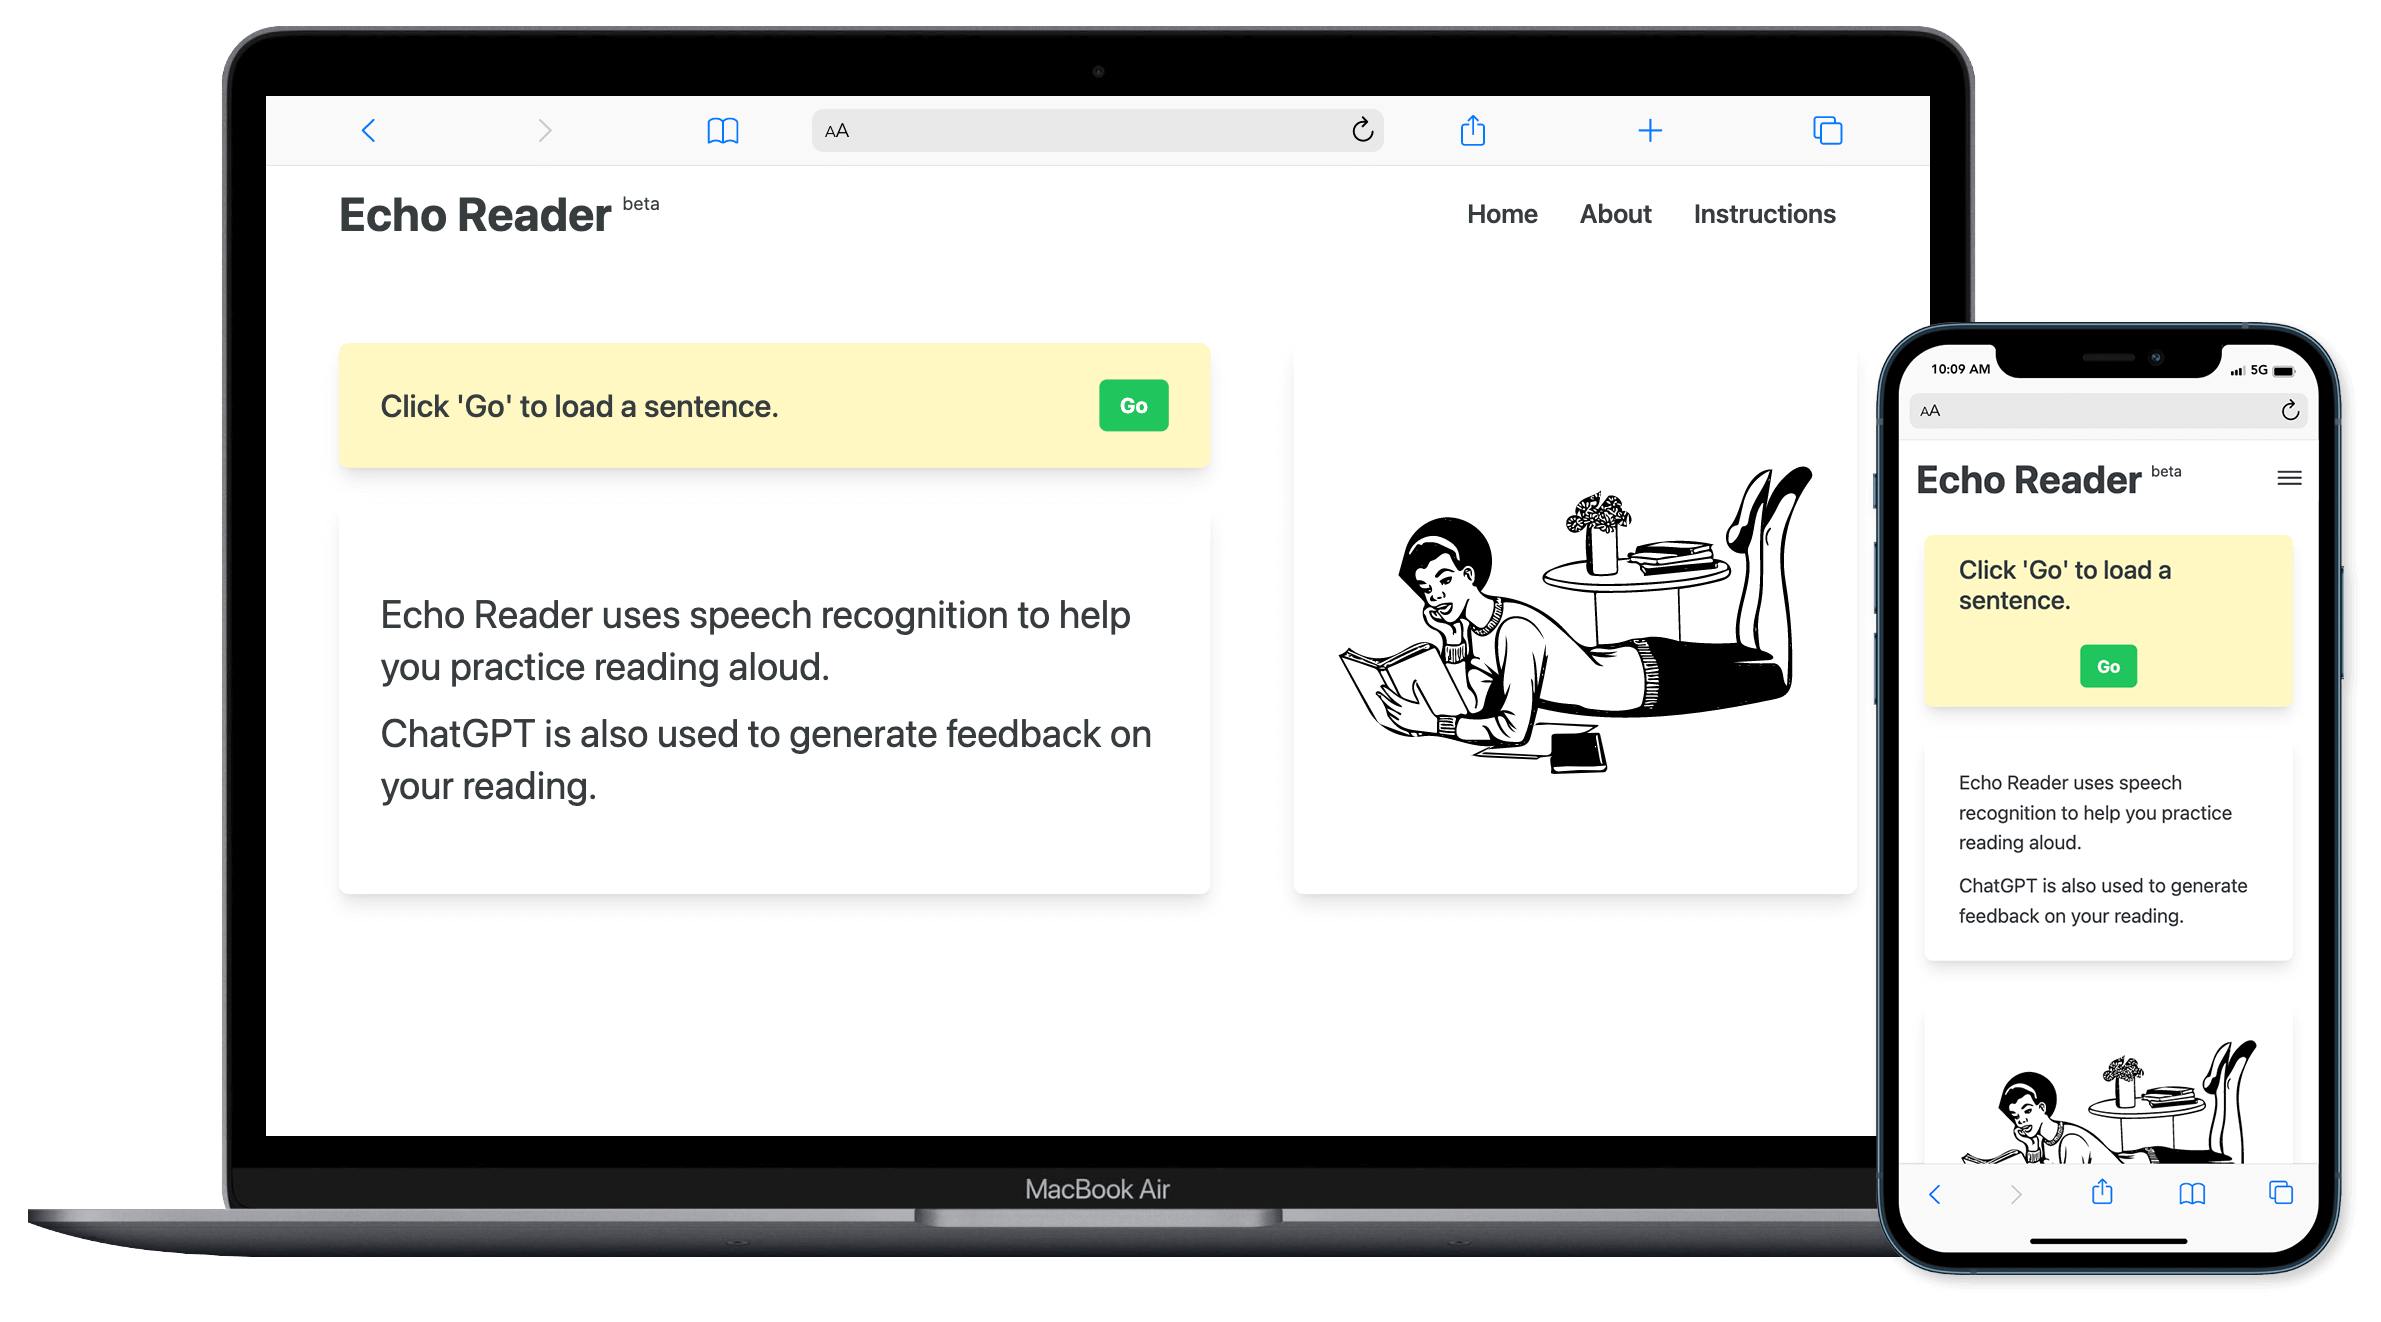
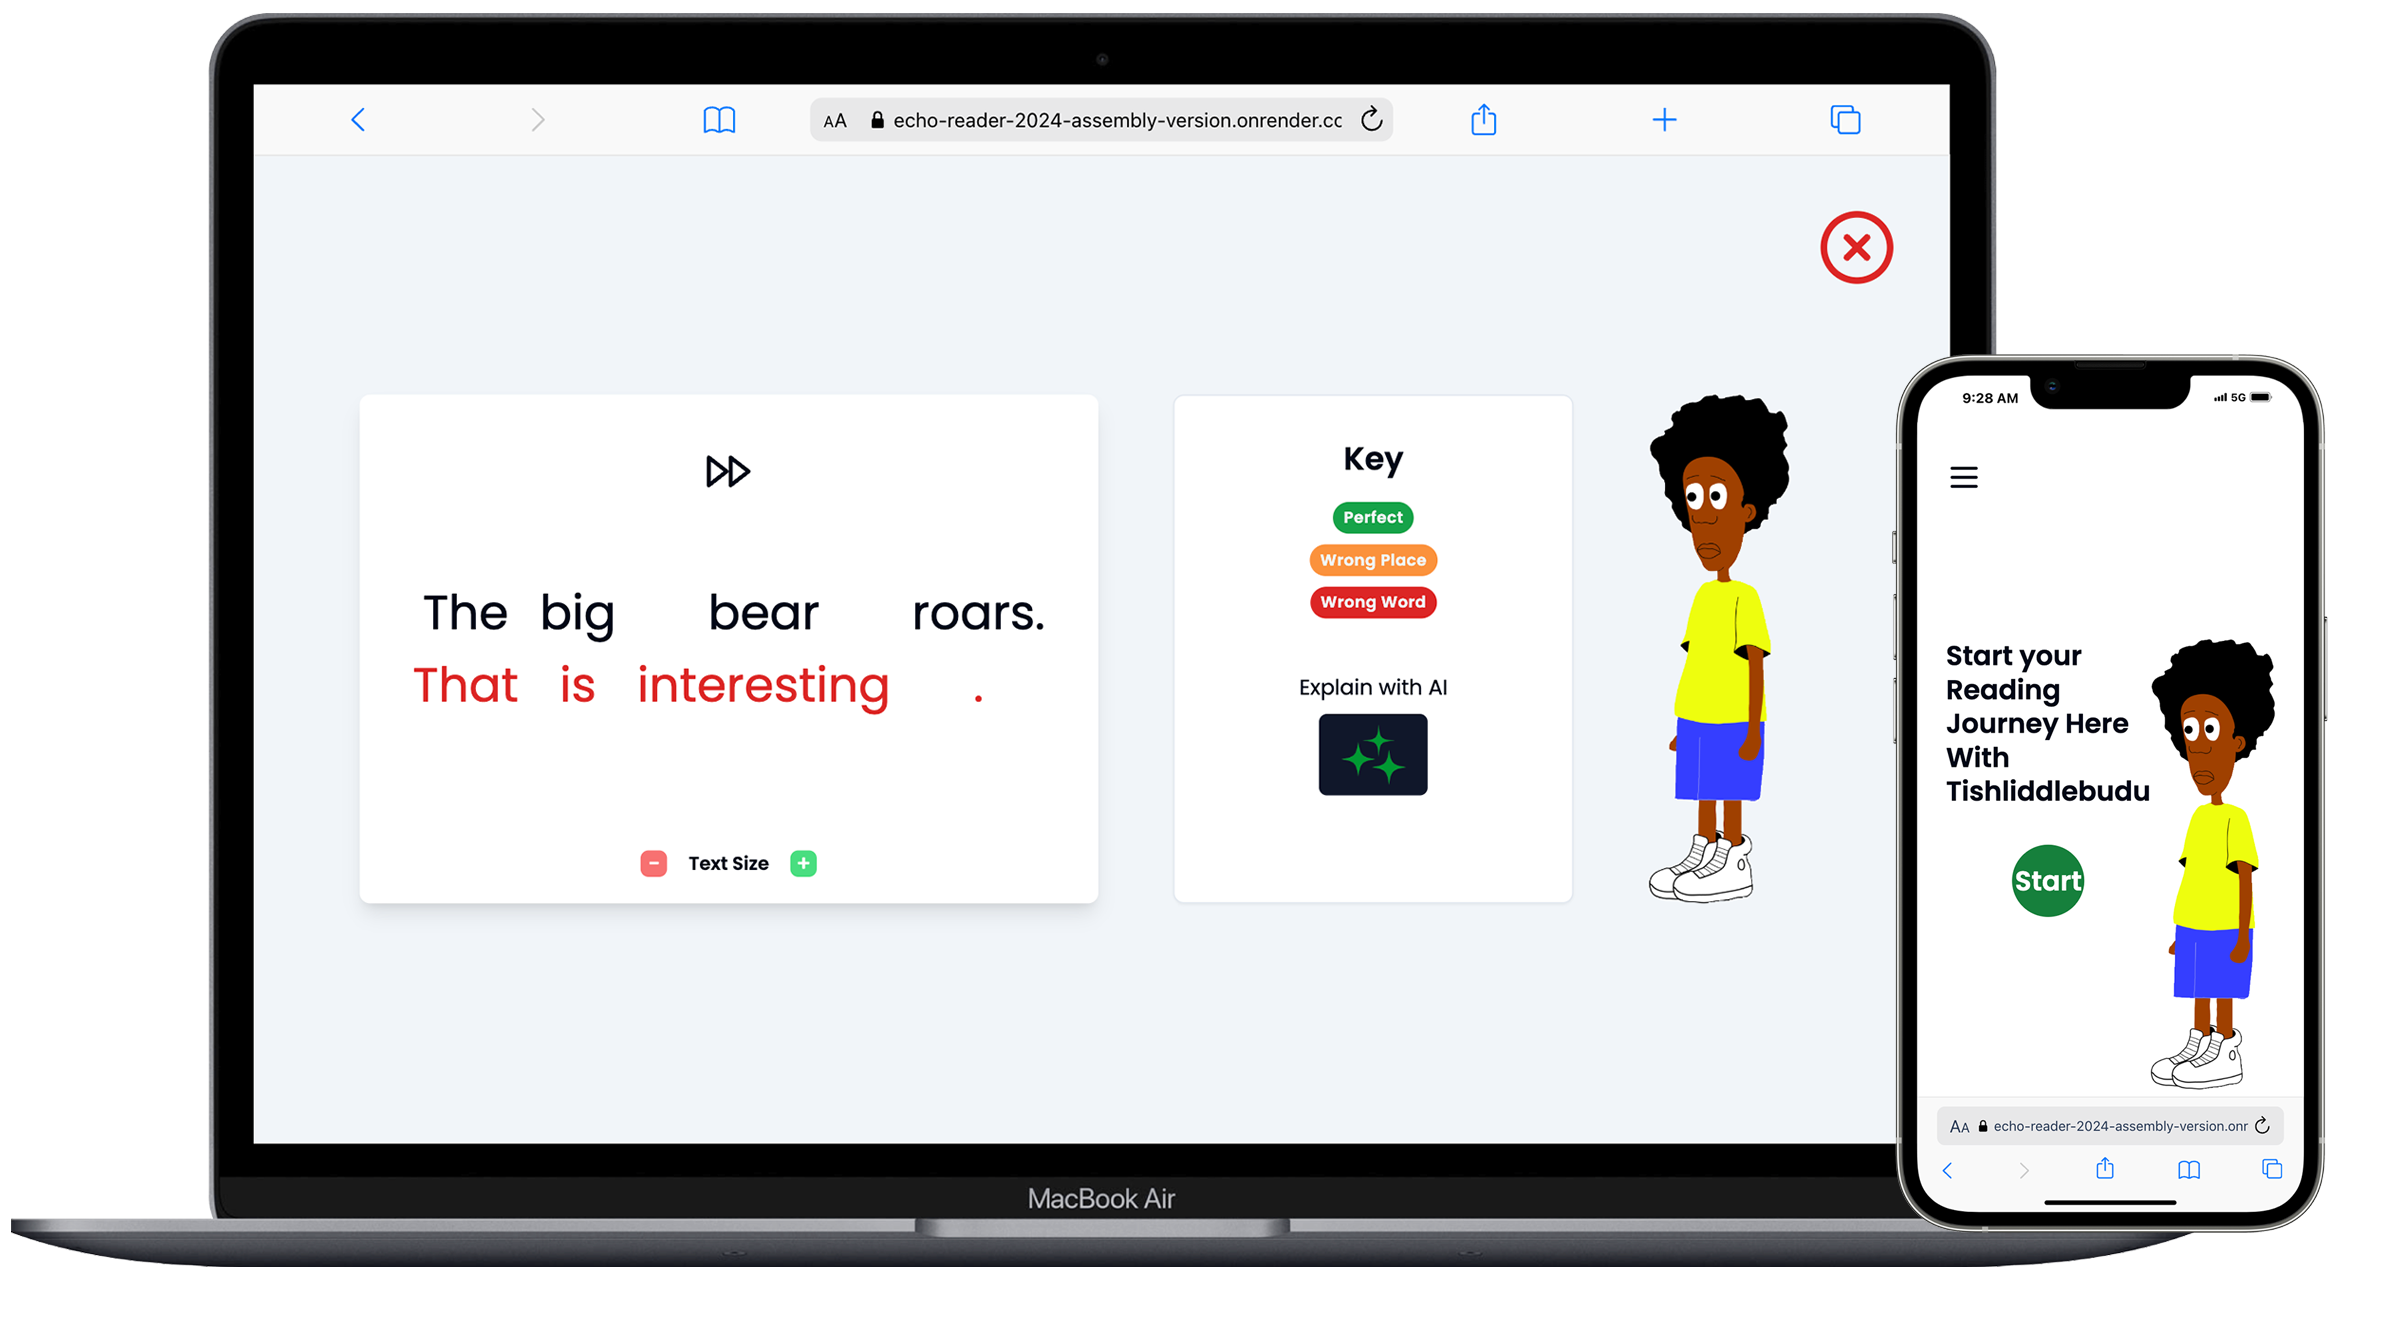
Add items to project list

Changed region(s): [[0.0, 0.0, 0.9945, 0.9924], [0.1554, 0.4342, 0.4973, 0.6203], [0.1554, 0.6203, 0.4351, 0.7133]]

diff --git a/src/Lists/project-list.js b/src/Lists/project-list.js
@@ -2,6 +2,7 @@ import InventoryTrackerProject from "../assets/inventory-tracker-project.png";
 import EmployeeMapProject from "../assets/employee-map-project.png";
 import SkillsIcons from "../assets/skills-icons/SkillsIcons";
 import MemorialProject from "../assets/memorial-project.png";
+import EchoReaderProject from "../assets/echo-reader-project.png";
 
 const projectList = [
   {
@@ -48,6 +49,20 @@ const projectList = [
     body: "This website was created to memorialize the life of my father. The user may explore the webiste by selecting a decade from the image gallery or a menu. The images used are placeholders with plans to update in the future. The application is built using Next.js and Tailwind.",
     githubURL: "https://github.com/imaricodes/standaman-memorial" ,
     liveURL: "https://standaman-memorial-lemon.vercel.app/",
+  },
+  {
+    id: 1,
+    title: "Echo Reader",
+    skills: [
+      SkillsIcons.iconReact,
+      SkillsIcons.iconCSS,
+      SkillsIcons.iconHTML5,
+      SkillsIcons.iconJavascript
+    ],
+    image: EchoReaderProject,
+    body: "Uses SocketIO and Assembly AI speech-to-text api to convert speech to text. OpenAI API is used to analyze user responses and give feedback on reading performance. The application is built using Next.js and Tailwind.",
+    githubURL: "https://github.com/imaricodes/-echo-reader-2024-assembly-version" ,
+    liveURL: "https://echo-reader-2024-assembly-version.onrender.com/",
   },
 ];
 
